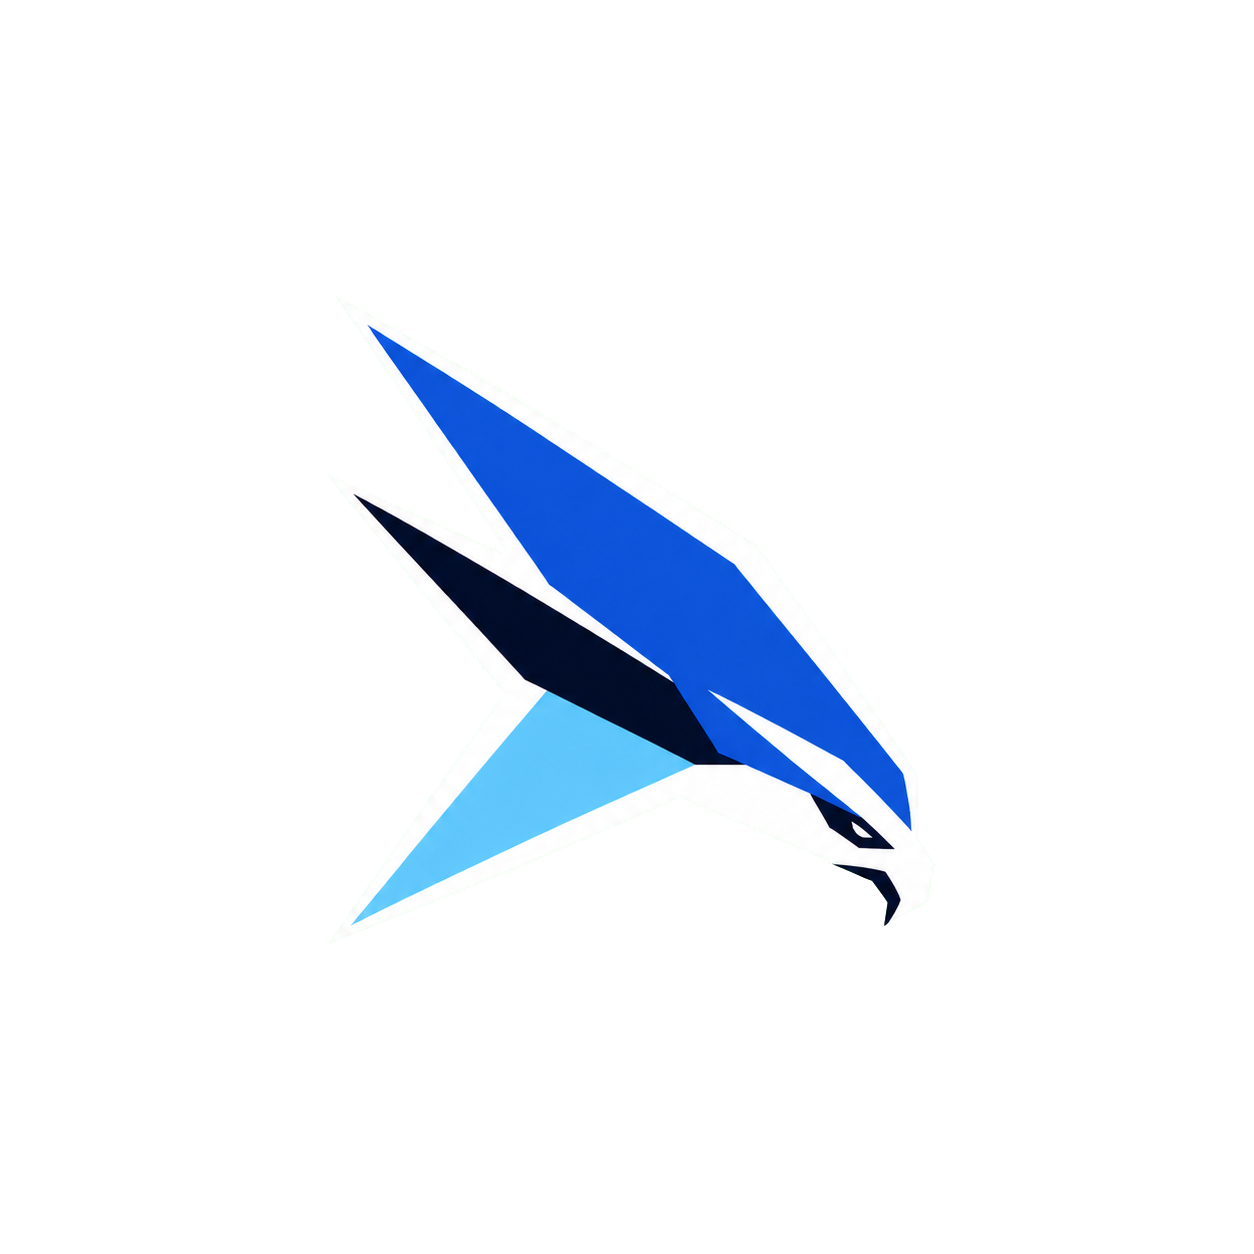
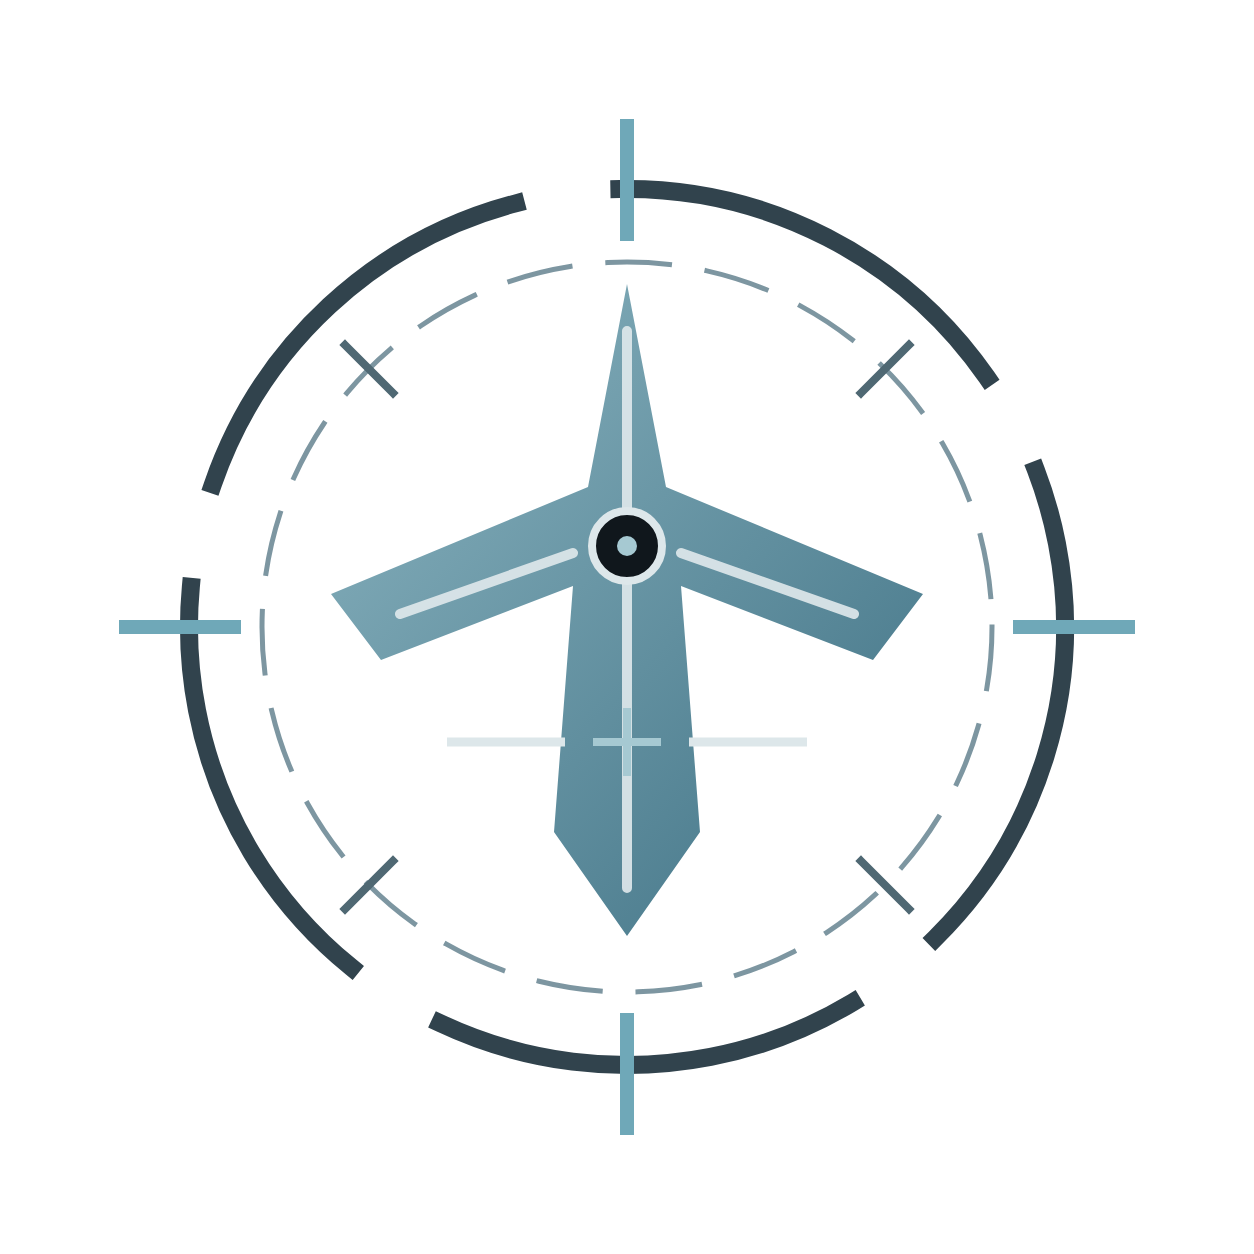
docs: publish KESTREL v0.36 release record

diff --git a/RELEASE_NOTES.md b/RELEASE_NOTES.md
@@ -1,4 +1,71 @@
-# KESTREL v0.35.0-alpha - the current public release
+# KESTREL v0.36.0-alpha - the current public release
+
+Published August 25, 2026. v0.36 corrects WORK BENCH physical placement and
+compatibility communication, replaces the flat studio field with a readable
+electronics bench, moves mission creation into MISSIONS, and introduces a
+quieter simulation/avionics KESTREL identity. Existing installations receive it
+through the updater on their next `KESTREL.exe` launch.
+
+![The v0.36 KESTREL mission-simulation identity](media/kestrel-lockup-v2.png)
+
+### Honest airframe assembly
+
+- High-fidelity motors seat from their authored mounting face instead of the
+  lowest point of hanging phase-wire geometry. Motor leads face inboard toward
+  the stack on every generated exposed-arm mount.
+- Batteries on 5-inch aircraft lie along the top plate with the connector aft.
+  The VTX antenna base uses the rear-center adapter surface rather than an
+  off-center mast position.
+- The BrotherHobby Avenger 3110 remains intentionally incompatible with the
+  Armattan Rooster 5. The 76 g, 19 x 19 mm motor is intended for 10–11-inch
+  propellers; the Rooster 5 is a 5-inch 22xx/23xx platform. The builder reports
+  that physical mismatch instead of fabricating a mount or a propeller choice.
+
+### WORK BENCH presentation and compatibility
+
+- The aircraft now turns over a deliberately blurred electronics workbench with
+  neutral graphite/steel lighting. It replaces both the engine checker and the
+  visually empty black field while keeping carbon and small hardware legible.
+- Every part card has a written state: `COMPATIBLE`, `NOT COMPATIBLE`, `CHECKING`,
+  or `EMPTY SLOT`. Incompatible cards are clearly desaturated, and the selected
+  part explains why it cannot fit.
+- Thumbnail caching keys on resolved mesh plus material. Products that truly
+  share geometry reuse their render; prop material variants keep distinct colors.
+- Rasterized type uses a stable quantized scale and microcopy has a readable
+  floor. Long aircraft-integration labels and bottom performance values fit their
+  panels with stronger contrast.
+
+### Navigation and identity
+
+- `CREATE MISSION` is now a permanent action inside MISSIONS. The duplicate
+  Builder destination is removed from the main menu, and editor exits return to
+  the mission catalog.
+- The old bright crest is replaced by an open instrument reticle, top-view small
+  aircraft planform, sensor truth point, and muted blue-gray palette. The result
+  reads as flight dynamics, C2, and mission rehearsal rather than a team mascot.
+
+### Verification and package identity
+
+- 880 runnable Python tests and 209 subtests pass; 5 environment-gated tests are
+  skipped. All 71 package-adjacent contracts and all 94 launcher/update tests pass.
+- The UE 5.8 Development Editor and monolithic Win64 Game targets compile. The
+  fresh public cook completed 6,883 Windows packages with zero cook errors, and
+  the archive passed path, entry-point, source-stamp, secret, and decompression
+  audits.
+- The credential-free public archive contains 14 missions, 71 audio files,
+  3,723 part files, 10 tactical-symbol assets, 7 backdrops, the protected report
+  relay, and no Cesium token or raw Discord webhook. It is traceable to Ceradon
+  Sim source commit `65e69c628210dc31a81a936fa5a36072172cb03c` and SHA-256
[1 lines of base64/hex data omitted]
+- Fresh interactive screenshots are not claimed for this build: Windows
+  Application Control on the release workstation blocks newly built unsigned
+  runtime/editor binaries. Deterministic shot setup, compilation, cook, catalog,
+  and contract checks are green; a tonemapped eyes-on pass remains presentation
+  follow-up on an approved runtime host.
+
+---
+
+# KESTREL v0.35.0-alpha (historical)
 
 Published August 25, 2026. v0.35 finishes named build management, promotes VTX,
 antenna, and stack hardware to selectable saved parts, and closes the remaining

diff --git a/README.md b/README.md
@@ -1,8 +1,8 @@
 <div align="center">
 
-<img src="media/kestrel-lockup-web.png" alt="KESTREL — Advanced sUAS Training Platform" width="720">
+<img src="media/kestrel-lockup-web.png" alt="KESTREL — Small UAS Mission Simulation" width="720">
 
-**Advanced sUAS training at any coordinate on Earth.**
+**Small UAS mission simulation at any coordinate on Earth.**
 
 [**Download →**](../../releases/latest)
 
@@ -30,24 +30,24 @@ packs, props, or airspace.
 
 ---
 
-## Current release — v0.35.0-alpha
+## Current release — v0.36.0-alpha
 
-v0.35 completes the named-aircraft and configurable-electronics pass:
+v0.36 is the WORK BENCH physical-fit, readability, and simulator-identity pass:
 
-- Builds now have stable identities and user-defined names. Save, rename, edit,
-  duplicate, and test-fly the same aircraft from the WORK BENCH and HANGAR.
-- VTX, antenna, and FC/ESC stack are selectable saved parts. Their exact hardware
-  identities persist, and VTX power plus antenna gain now drive the live RF link.
-- Dense tactical briefs keep MIL-STD-2525E-style symbols readable with reserved
-  information space, map-aware scaling, leader lines, and explicit stack counts.
-- The Nazgul Evoque F5 V3 fit was recalibrated against the assembled aircraft:
-  the battery runs fore/aft on the top pad with its connector aft, and XING2 2207
-  motor bases seat on the four arm pads without floating or clipping.
-
-![A complete Nazgul Evoque F5 V3 build in the v0.35 WORK BENCH](media/ui-workbench-nazgul-v035.png)
+- Motor mounting uses the authored base plane, all phase leads point inboard,
+  5-inch batteries sit longitudinally with the connector aft, and the VTX aerial
+  lands on the rear-center adapter plane.
+- Catalog cards now say `COMPATIBLE` or `NOT COMPATIBLE` instead of relying on a
+  subtle tint. The Rooster 5 correctly rejects the 10–11-inch Avenger 3110 motor
+  class rather than inventing a false 5-inch prop fit.
+- The flat/checker turntable field is replaced by a soft-focus electronics bench,
+  type renders at a stable readable scale, and prop material variants keep their
+  distinct colors and thumbnails.
+- `CREATE MISSION` now lives inside MISSIONS, and the brighter sports-style crest
+  is replaced by a restrained avionics reticle and small-aircraft planform.
 
 Existing installations update automatically when `KESTREL.exe` starts. See the
-[full release notes](RELEASE_NOTES.md) for the complete v0.35 and historical
+[full release notes](RELEASE_NOTES.md) for the complete v0.36 and historical
 release record.
 
 ---
